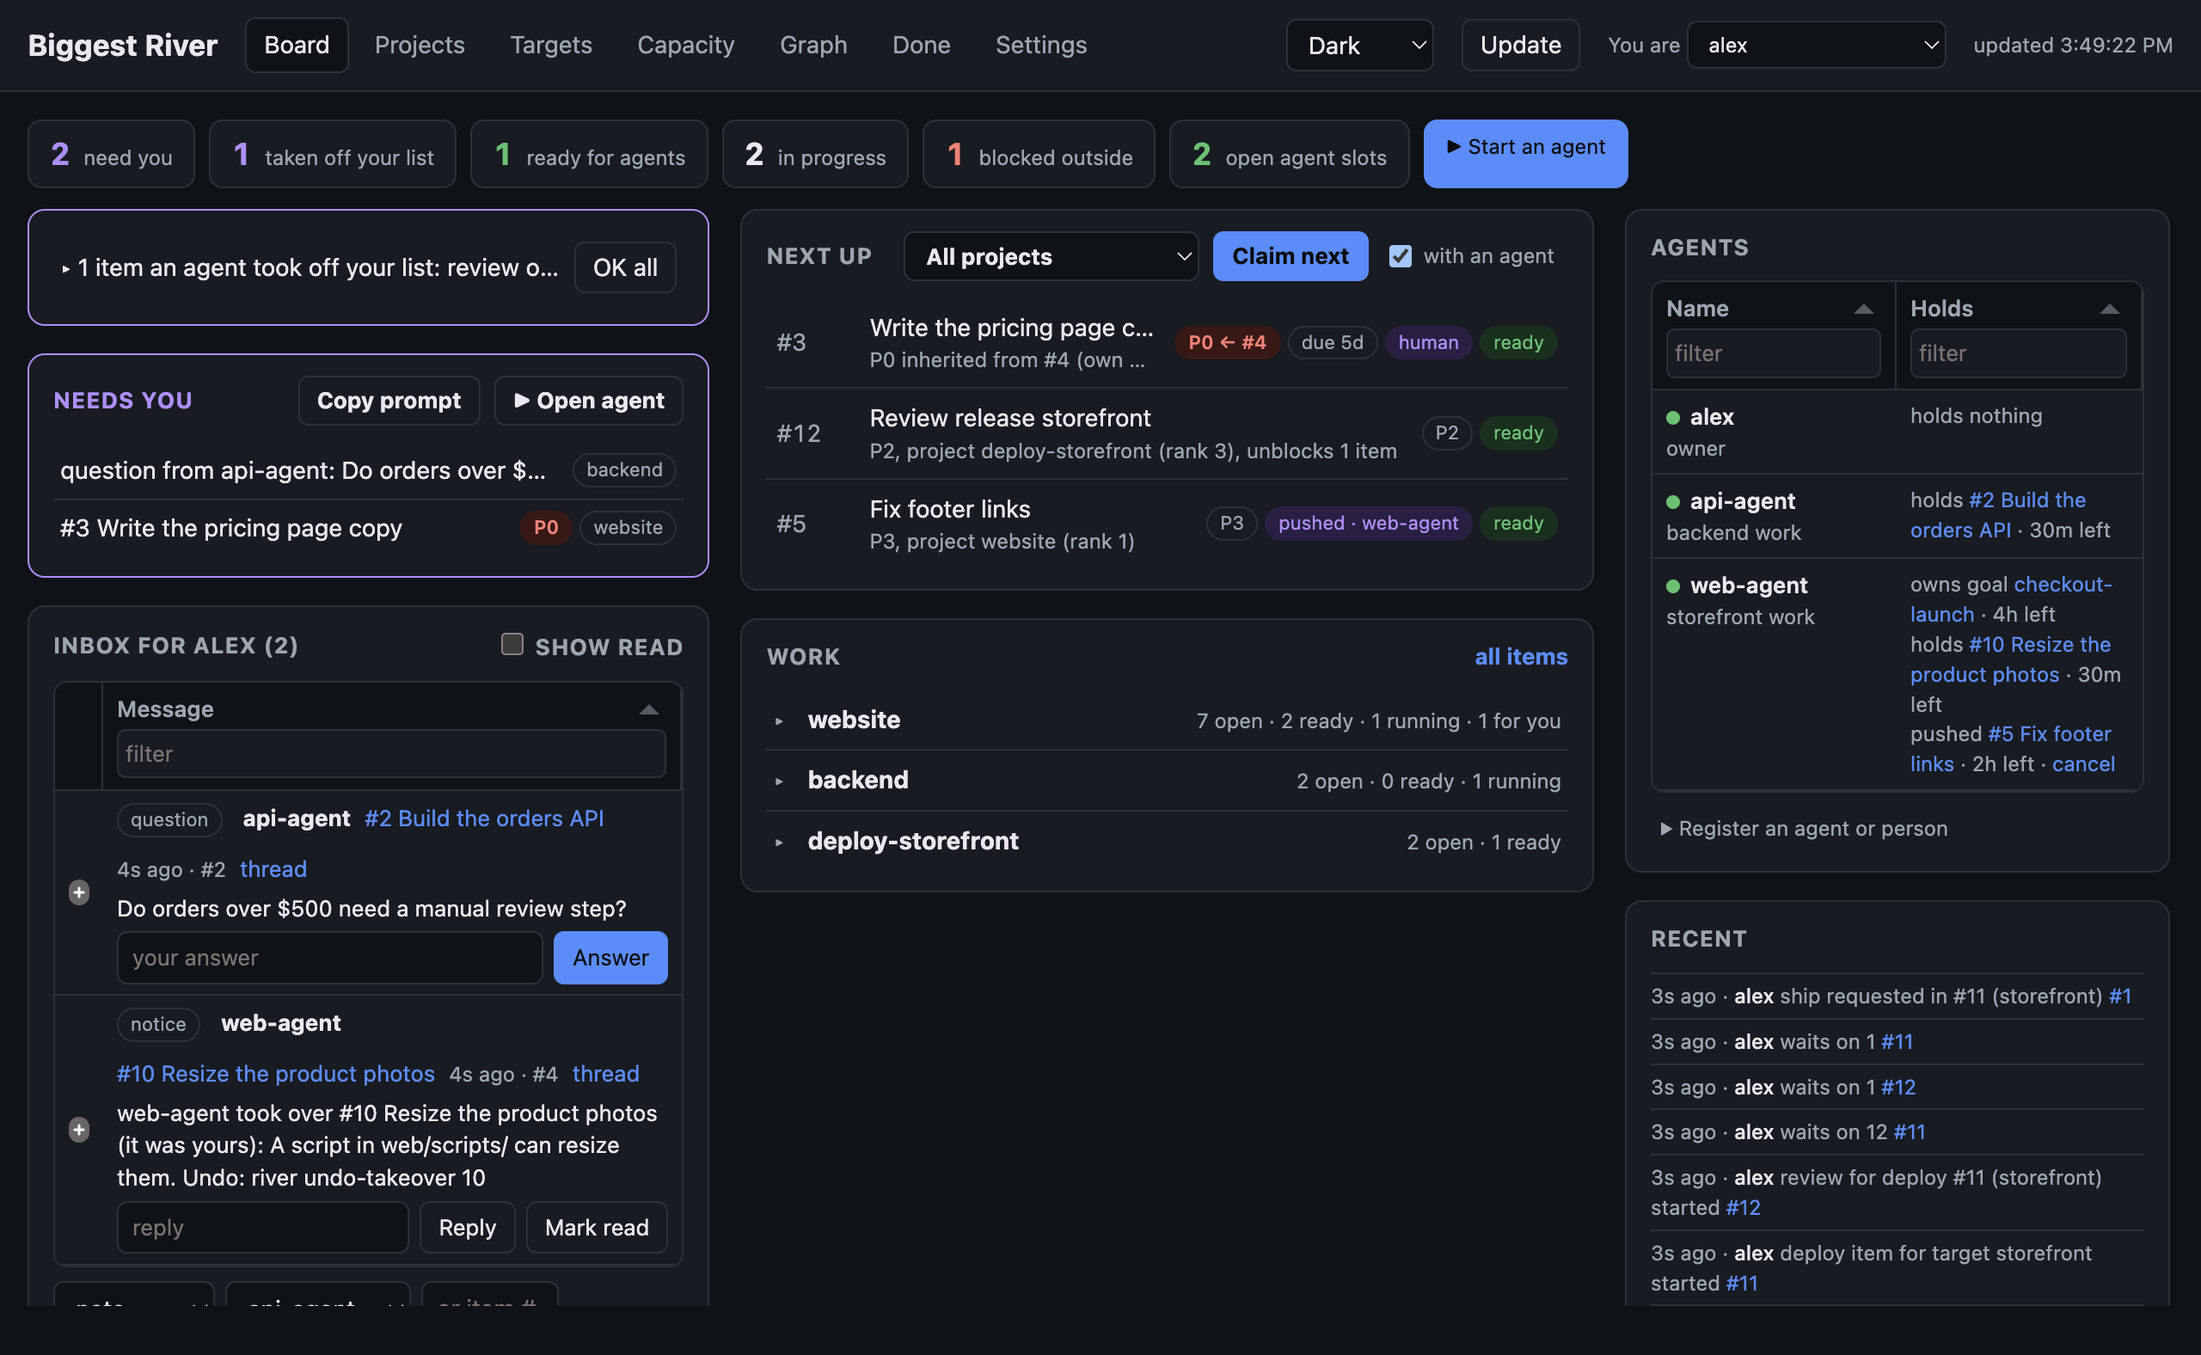
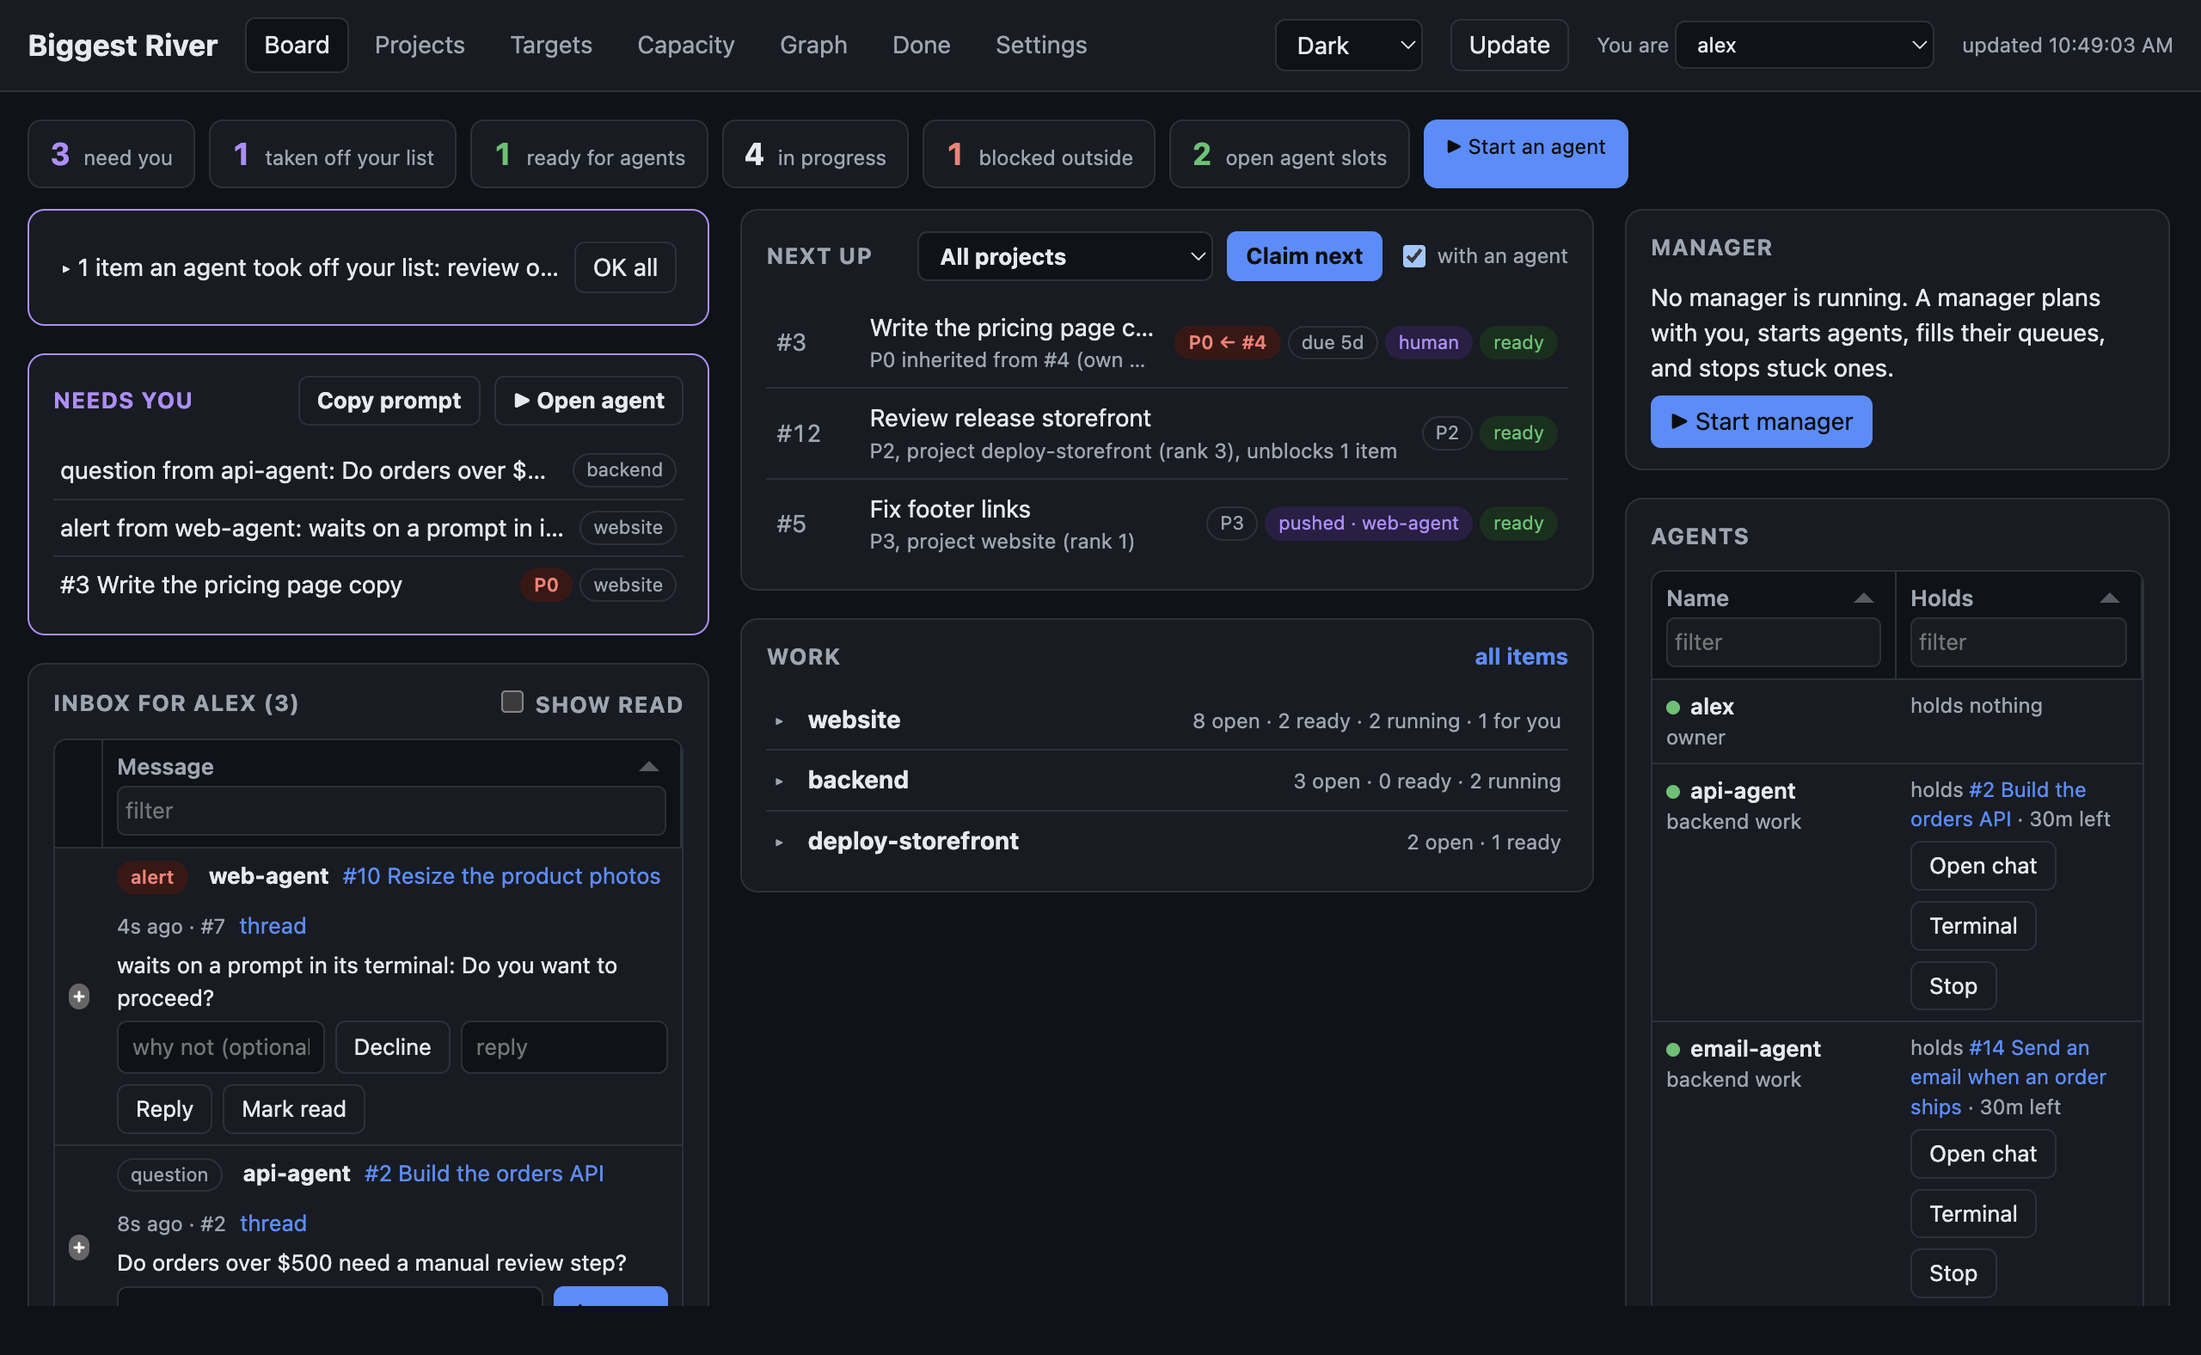
seed/shoot.js makes pictures of an agent's Terminal on the page, the alert for a prompt that waits, and river view, and the pictures in site/img are new: the pictures were from 2026-09-28, older than tmux launch, river view, the Terminal button and the prompt alert; the script now starts four stand-
Claude-Session: https://claude.ai/code/session_01SHQs5dKrdoiS1aXovBHwJ1

diff --git a/seed/shoot.js b/seed/shoot.js
@@ -1,8 +1,12 @@
 // Takes the pictures for the README and biggestriver.com from the page, with the demo data of
-// seed/screenshots.sh, and writes them to site/img/. Uses the desktop app's Electron (no other packages):
+// seed/screenshots.sh, and writes them to site/img/ (or to OUT). Uses the desktop app's Electron (no other
+// packages), tmux, and ffmpeg:
 //   cd desktop && npm ci && npx electron ../seed/shoot.js
 // The server runs with a throwaway HOME (/tmp/.../alex), so no path of this computer shows in a picture.
-// The page never clicks Start or Dispatch here: those open real terminal windows.
+// The page never clicks Start or Dispatch here: those open real terminal windows. The agents of the
+// pictures are stand-ins in panes of a tmux server of its own (TMUX_TMPDIR), never this computer's tmux:
+// they give the Terminal of an agent on the page, the alert for a prompt that waits, and river view.
+// A sandbox blocks the tmux socket: run this outside one.
 const { app, BrowserWindow } = require("electron");
 const { execFileSync, spawn } = require("node:child_process");
 const fs = require("node:fs");
@@ -11,11 +15,14 @@ const os = require("node:os");
 const path = require("node:path");
 
 const repo = path.join(__dirname, "..");
-const out = path.join(repo, "site", "img");
+const out = process.env.OUT || path.join(repo, "site", "img");
 const tmp = fs.realpathSync(fs.mkdtempSync(path.join(os.tmpdir(), "river-shots-")));
 const home = path.join(tmp, "alex");
+const sock = fs.realpathSync(fs.mkdtempSync("/tmp/rs-"));  // short: a socket path has a length limit
 const W = 1280, H = 820;
+const COLS = 160, ROWS = 44;  // the terminal that runs river view
 const sleep = (ms) => new Promise((r) => setTimeout(r, ms));
+const tmuxExe = ["/opt/homebrew/bin/tmux", "/usr/local/bin/tmux", "/usr/bin/tmux"].find((p) => fs.existsSync(p)) || "tmux";
 
 function freePort() {
   return new Promise((resolve) => { const s = net.createServer(); s.listen(0, "127.0.0.1", () => { const p = s.address().port; s.close(() => resolve(p)); }); });
@@ -32,22 +39,42 @@ function makeHome() {
 const riverIn = (env) => (...a) => execFileSync("python3", [path.join(repo, "bin", "river"), "-q", ...a], { env, encoding: "utf8" });
 
 // river serve on a database; returns its URL and a stop function.
+const servers = [];
 async function serve(env) {
   const port = await freePort();
   const srv = spawn("python3", [path.join(repo, "bin", "river"), "serve", "--port", String(port)], { env, stdio: "ignore" });
+  servers.push(srv);
   return { url: `http://127.0.0.1:${port}/`, stop: () => srv.kill() };
+}
+
+// What a stand-in agent shows in its pane: demo text in the look of an agent CLI.
+const E = "\x1b[", R = E + "0m";
+const tool = (name, arg, ...res) => [`${E}32m●${R} ${E}1m${name}${R}(${arg})`, ...res.map((x, i) => `${E}2m  ${i ? " " : "└"} ${x}${R}`), ""];
+const busy = (text) => [`${E}33m✻ ${text}${R}`];
+function screen(a) {
+  return [`${E}2m>${R} go`, "",
+    ...tool("Bash", "river go", `You are river agent ${a.name}. Role: WORKER.`, `YOUR ITEM #${a.id}: ${a.title}`),
+    ...a.steps.flat()].join("\n");
 }
 
 async function main() {
   fs.mkdirSync(out, { recursive: true });
   makeHome();
-  const base = { ...process.env, HOME: home, SHELL: "/bin/zsh", TZ: "UTC" };
-  for (const k of ["RIVER_AGENT", "RIVER_FOCUS", "CLAUDECODE", "CLAUDE_CODE_ENTRYPOINT", "RIVER_DB"]) delete base[k];
+  const base = { ...process.env, HOME: home, SHELL: "/bin/zsh", TZ: "UTC", LANG: "en_US.UTF-8", LC_ALL: "en_US.UTF-8", TMUX_TMPDIR: sock };
+  for (const k of ["RIVER_AGENT", "RIVER_FOCUS", "CLAUDECODE", "CLAUDE_CODE_ENTRYPOINT", "RIVER_DB", "TMUX", "TMUX_PANE"]) delete base[k];
+  const tmux = (...a) => execFileSync(tmuxExe, ["-u", "-f", "/dev/null", ...a], { env: base, encoding: "utf8" }).replace(/\n$/, "");
+  const outer = (...a) => tmux("-L", "outer", ...a);
+  // The tmux server of the pictures is a new one: this must find no server.
+  let other = null;
+  try { other = tmux("list-sessions"); } catch (e) { /* no server: right */ }
+  if (other !== null) throw new Error("a tmux server answers on the socket of the pictures: " + other);
+
   const win = new BrowserWindow({ width: W, height: H, show: false, paintWhenInitiallyHidden: true,
     webPreferences: { backgroundThrottling: false } });
   const js = (code) => win.webContents.executeJavaScript(code);
   let url;
   const ready = async () => { for (let i = 0; i < 50; i++) { try { await win.loadURL(url); return; } catch (e) { await sleep(200); } } };
+  const until = async (code, tries = 50) => { for (let i = 0; i < tries; i++) { if (await js(code)) return true; await sleep(200); } return false; };
 
   // Open the page on a link (#tab-graph&as-alex) in a theme, wait until it has drawn, run a step, take a picture.
   async function open(hash, theme = "light") {
@@ -55,7 +82,7 @@ async function main() {
     // A new hash alone does not load the page again: go through a blank page.
     await win.loadURL("about:blank");
     await win.loadURL(url + (hash ? "#" + hash : ""));
-    for (let i = 0; i < 50; i++) { if (await js(`!!document.querySelector("#work .row, #work .card, #work > *")`)) break; await sleep(200); }
+    await until(`!!document.querySelector("#work .row, #work .card, #work > *")`);
     await sleep(1200);
     // Paths: the throwaway HOME reads as ~, like on a person's own computer.
     await js(`(() => { const w = document.createTreeWalker(document.body, NodeFilter.SHOW_TEXT); let n;
@@ -73,10 +100,17 @@ async function main() {
     }
     const img = await win.webContents.capturePage(rect);
     fs.writeFileSync(path.join(out, name), img.toPNG());
-    console.log("wrote", name, img.getSize());
+    console.log("wrote", name, JSON.stringify(img.getSize()));
   }
   const frames = [];
   async function frame() { const img = await win.webContents.capturePage(); frames.push(img.toPNG()); }
+  const esc = (s) => s.replace(/&/g, "&amp;").replace(/</g, "&lt;");
+  // A terminal window with this HTML as its text.
+  const termPage = (inner, font = "13px/1.45") => "data:text/html;charset=utf-8," + encodeURIComponent(`<!doctype html><body style="margin:0;background:#1e1f24">
+    <div id="t" style="margin:24px;border-radius:10px;background:#15161a;box-shadow:0 8px 30px #0008;overflow:hidden;width:${W - 48}px">
+    <div style="height:28px;background:#2a2b31;display:flex;align-items:center;gap:8px;padding-left:12px">
+    <i style="width:12px;height:12px;border-radius:6px;background:#ff5f57"></i><i style="width:12px;height:12px;border-radius:6px;background:#febc2e"></i><i style="width:12px;height:12px;border-radius:6px;background:#28c840"></i></div>
+    <pre style="margin:0;padding:16px 18px;color:#d8dae0;font:${font} Menlo,monospace;white-space:pre-wrap">${inner}</pre></div></body>`);
 
   // The setup guide on a first start: only the person is known yet. It opens by itself.
   const first = { ...base, RIVER_DB: path.join(tmp, "first.db") };
@@ -92,11 +126,75 @@ async function main() {
   const river = riverIn(env);
   river("config", "set", "setup_done", "on");  // first, so the Recent panel shows only the demo work
   execFileSync("sh", [path.join(repo, "seed", "screenshots.sh")], { env, stdio: "ignore" });
+  // The briefing picture: before the page pictures, so the board keeps the state the seed made.
+  const brief = river("--as", "web-agent", "go", "--project", "website");
+
+  // Two more agents at work, so river view has four panes.
+  const add = (project, title, touches) => +river("--json", "--as", "alex", "add", project, title, "--doer", "ai", "--touches", touches).match(/"id":\s*(\d+)/)[1];
+  const extra = [
+    { name: "search-agent", note: "storefront work", project: "website", title: "Add search to the product list", touches: "web/search/",
+      steps: [tool("Read", "web/products/List.tsx", "Read 97 lines"), tool("Write", "web/search/SearchBox.tsx", "Wrote 58 lines"),
+        tool("Bash", "npm test -- SearchBox", "6 passed"), busy("Connecting the search box to the product list… (48s)")] },
+    { name: "email-agent", note: "backend work", project: "backend", title: "Send an email when an order ships", touches: "api/email.py",
+      steps: [tool("Read", "api/email.py", "Read 44 lines"), tool("Update", "api/email.py", "Added 31 lines"),
+        tool("Bash", "pytest tests/test_email.py", "1 failed, 7 passed"), busy("Fixing the test for the subject line… (1m 05s)")] },
+  ];
+  for (const a of extra) {
+    river("register", a.name, "--note", a.note);
+    a.id = add(a.project, a.title, a.touches);
+    river("--as", a.name, "claim", String(a.id));
+  }
+  const agents = [
+    { name: "api-agent", id: 2, title: "Build the orders API",
+      steps: [tool("Read", "api/orders.md", "Read 61 lines"), tool("Write", "api/orders.py", "Wrote 142 lines"),
+        tool("Bash", "pytest tests/test_orders.py", "12 passed in 0.84s"), busy("Adding pages to GET /orders… (2m 14s)")] },
+    { name: "web-agent", id: 10, title: "Resize the product photos",
+      steps: [tool("Bash", "node web/scripts/resize.js web/public/products", "24 photos: 4000 px to 1600 px"),
+        [`${E}32m●${R} ${E}1mBash${R}(git commit -am "Resize the product photos")`, "",
+          `  ${E}1mDo you want to proceed?${R}`, `  ${E}36m❯ 1. Yes${R}`, "    2. Yes, and don't ask again for git commit", "    3. No, and tell the agent what to do differently"]] },
+    ...extra,
+  ];
+
+  // The agents in tmux, as river launch --tmux makes them: a window each in the session river, with the
+  // session's name and the agent's name on the pane. A stand-in shows the screen and stays.
+  const standin = path.join(tmp, "agent.py");
+  fs.writeFileSync(standin, `import signal, sys, time
+text = open(sys.argv[1]).read()
+def draw(*_):
+    sys.stdout.write("\\x1b[2J\\x1b[H\\x1b[?25l" + text.replace("\\n", "\\r\\n"))
+    sys.stdout.flush()
+signal.signal(signal.SIGWINCH, draw)
+draw()
+while True:
+    time.sleep(60)
+`);
+  const cwd = path.join(home, "code", "shop");
+  agents.forEach((a, i) => {
+    const file = path.join(tmp, a.name + ".txt");
+    fs.writeFileSync(file, screen(a));
+    const name = `#${a.id} ${a.title}`.slice(0, 45);
+    const make = i ? ["new-window", "-d", "-t", "=river:"] : ["new-session", "-d", "-s", "river", "-x", String(COLS), "-y", String(ROWS)];
+    const pane = tmux(...make, "-n", name, "-c", cwd, "-P", "-F", "#{pane_id}", `exec python3 ${standin} ${file}`);
+    // The status line shows the time only: the default also shows the host name.
+    if (!i) { tmux("set-option", "-t", "=river:", "default-size", `${COLS}x${ROWS}`); tmux("set-option", "-g", "status-right", " %H:%M "); }
+    tmux("set-option", "-p", "-t", pane, "@river_name", name);
+    tmux("set-option", "-p", "-t", pane, "@river_agent", a.name);
+  });
+  console.log(river("view"));  // side by side, as a person's river view leaves them
+
+  // The prompt alert comes after a short wait here.
+  river("config", "set", "prompt_wait", "1s");
+  river("config", "set", "notify_interval", "2s");
   const s2 = await serve(env); url = s2.url; await ready();
+  await open("as-alex");
+  if (!await until(`/waits on a prompt/.test((document.querySelector("#needsYou") || {}).textContent || "")`, 150)) throw new Error("no prompt alert on the page");
 
   for (const theme of ["light", "dark"]) {
     await open("as-alex", theme);
     await shot(`board-${theme}.png`);
+    // The alert's row open: its Terminal button shows.
+    await js(`[...document.querySelectorAll("#needsYou .nyl")].find(e => /waits on a prompt/.test(e.textContent)).click()`);
+    await sleep(300);
     await shot(`needs-you-${theme}.png`, "#needsYouPanel", 8);
   }
   await open("tab-capacity&as-alex"); await shot("parallel-work.png", "#tab-capacity", 8);
@@ -105,10 +203,21 @@ async function main() {
   await open("tab-projects&as-alex");
   await js(`(() => { const s = document.querySelector("#goalFilter"); s.value = "checkout-launch"; s.dispatchEvent(new Event("change")); })()`);
   await sleep(600); await shot("goals.png", "#tab-projects", 8);
+  await js(`localStorage.removeItem("river.goal")`);  // the page remembers the goal: the pictures after this one show all work
 
-  // The tour: Board, an item, Projects, Graph, Targets, Done; two frames each, so each view stays a moment.
-  for (const h of ["as-alex", "as-alex&item-4", "tab-projects&as-alex", "tab-graph&as-alex", "tab-targets&as-alex", "tab-done&as-alex"]) {
+  // The Terminal of an agent on the page: its pane, with the prompt that waits there.
+  const termOpen = () => until(`(document.querySelector("#termScreen") || {}).textContent > ""`);
+  for (const theme of ["light", "dark"]) {
+    await open("as-alex&terminal-web-agent", theme);
+    if (!await termOpen()) throw new Error("the Terminal dialog shows nothing");
+    await sleep(400);
+    await shot(`terminal-${theme}.png`, "#termDlg .box", 16);
+  }
+
+  // The tour: Board, an agent's Terminal, an item, Projects, Graph, Targets, Done; two frames each.
+  for (const h of ["as-alex", "as-alex&terminal-web-agent", "as-alex&item-4", "tab-projects&as-alex", "tab-graph&as-alex", "tab-targets&as-alex", "tab-done&as-alex"]) {
     await open(h); if (h.includes("graph")) await sleep(1500);
+    if (h.includes("terminal")) { await termOpen(); await sleep(400); }
     await frame(); await frame();
   }
   const fd = path.join(tmp, "frames"); fs.mkdirSync(fd);
@@ -118,18 +227,32 @@ async function main() {
     "-loop", "0", path.join(out, "board-tour.gif")]);
   console.log("wrote board-tour.gif");
 
+  // river view: the command runs in a terminal of COLS x ROWS (a pane of a second tmux server), and that
+  // terminal's screen, with its colours, is the picture.
+  outer("new-session", "-d", "-s", "outer", "-x", String(COLS), "-y", String(ROWS), "-c", cwd,
+    `env -u TMUX -u TMUX_PANE python3 ${path.join(repo, "bin", "river")} view`, ";", "set-option", "-g", "status", "off");
+  await sleep(2500);
+  const view = outer("capture-pane", "-p", "-e", "-t", "outer");
+  await open("as-alex");
+  const viewHtml = await js(`import("/components/terminalDialog.js").then(m => m.ansiToHtml(${JSON.stringify(view)}))`);
+  await win.loadURL(termPage(viewHtml, "12px/1.2"));
+  await sleep(500); await shot("river-view.png", "#t", 0);
+
   // The go briefing an agent reads, drawn as a terminal window.
-  const brief = river("--as", "web-agent", "go", "--project", "website");
-  const esc = (s) => s.replace(/&/g, "&amp;").replace(/</g, "&lt;");
-  await win.loadURL("data:text/html;charset=utf-8," + encodeURIComponent(`<!doctype html><body style="margin:0;background:#1e1f24">
-    <div id="t" style="margin:24px;border-radius:10px;background:#15161a;box-shadow:0 8px 30px #0008;overflow:hidden;width:${W - 48}px">
-    <div style="height:28px;background:#2a2b31;display:flex;align-items:center;gap:8px;padding-left:12px">
-    <i style="width:12px;height:12px;border-radius:6px;background:#ff5f57"></i><i style="width:12px;height:12px;border-radius:6px;background:#febc2e"></i><i style="width:12px;height:12px;border-radius:6px;background:#28c840"></i></div>
-    <pre style="margin:0;padding:16px 18px;color:#d8dae0;font:13px/1.45 Menlo,monospace;white-space:pre-wrap"><span style="color:#8bd5a0">~/code/shop $</span> river go\n${esc(brief.trim())}</pre></div></body>`));
+  await win.loadURL(termPage(`<span style="color:#8bd5a0">~/code/shop $</span> river go\n${esc(brief.trim())}`));
   await sleep(500); await shot("go-briefing.png", "#t", 0);
 
   s2.stop();
+  for (const t of [outer, tmux]) { try { t("kill-server"); } catch (e) { /* none */ } }
   fs.rmSync(tmp, { recursive: true, force: true });
+  fs.rmSync(sock, { recursive: true, force: true });
 }
 
-app.whenReady().then(main).then(() => app.quit(), (e) => { console.error(e); app.exit(1); });
+app.whenReady().then(main).then(() => app.quit(), (e) => {
+  console.error(e);
+  for (const srv of servers) srv.kill();
+  // Only the servers of the pictures: each by the path of its own socket.
+  const dir = path.join(sock, "tmux-" + os.userInfo().uid);
+  for (const name of ["outer", "default"]) { try { execFileSync(tmuxExe, ["-S", path.join(dir, name), "kill-server"], { stdio: "ignore" }); } catch (x) { /* none */ } }
+  app.exit(1);
+});
